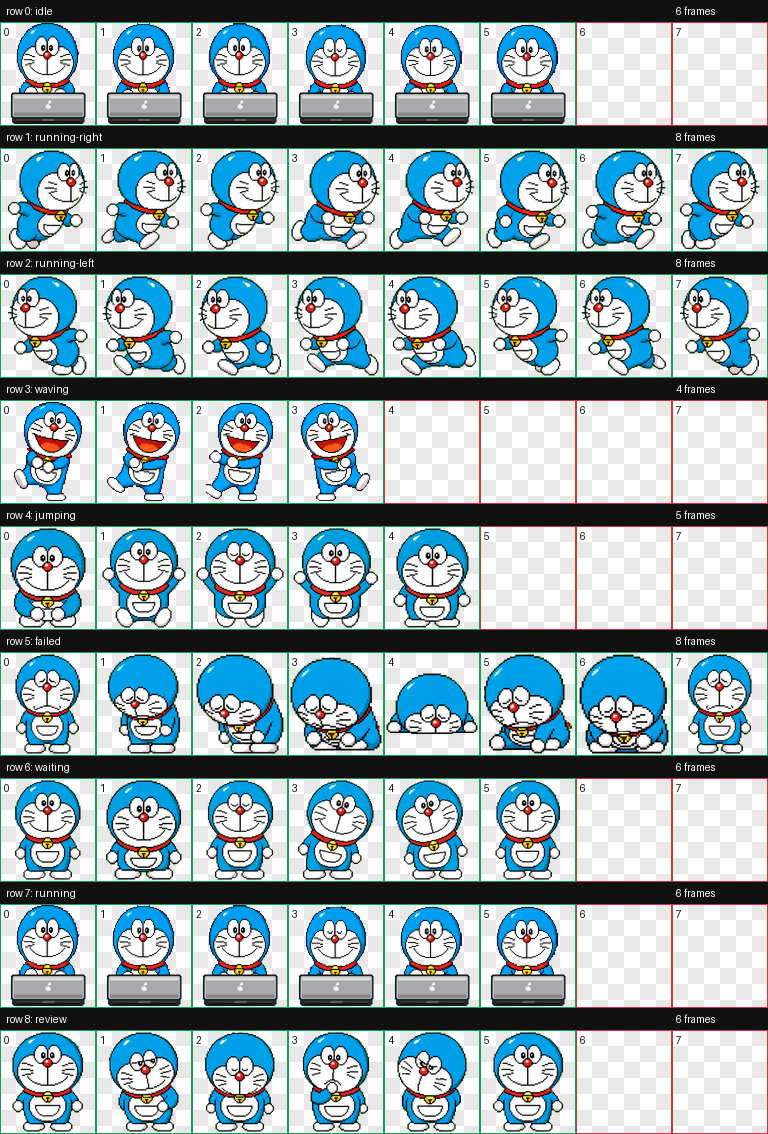
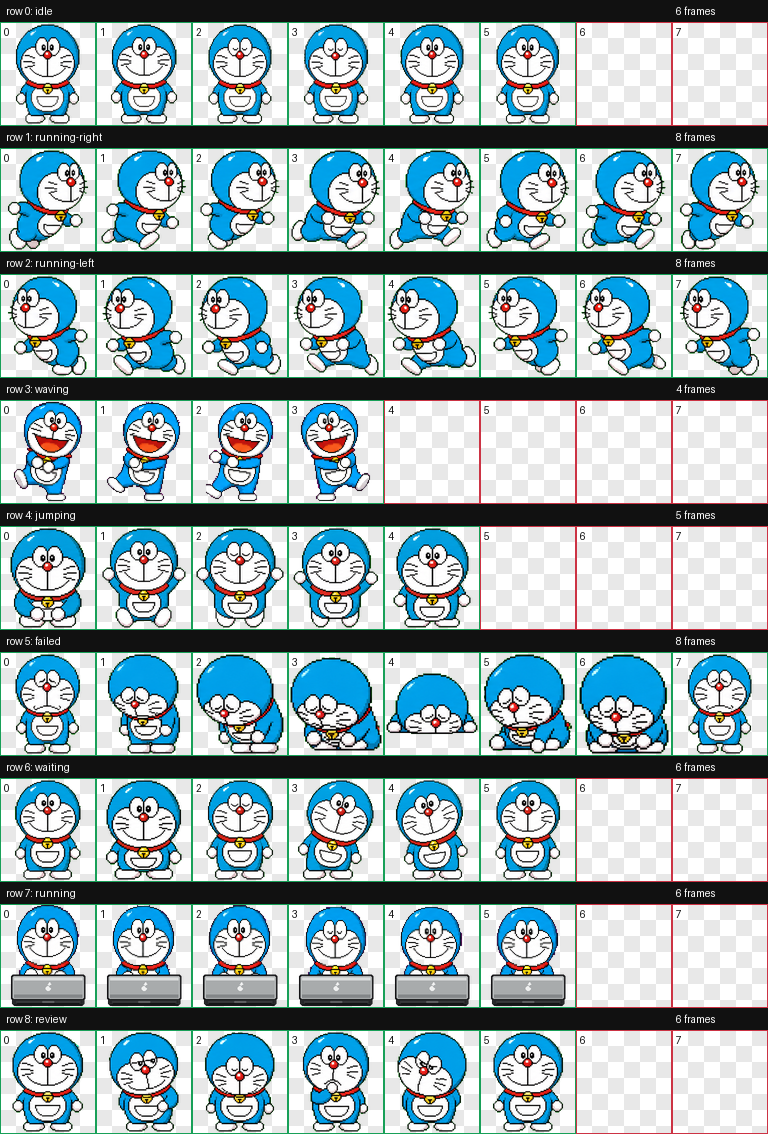
Fix Doraemon idle sprite cleanup

Changed region(s): [[0.0, 0.0, 0.75, 0.1235]]

diff --git a/README.md b/README.md
@@ -2,17 +2,17 @@
 
 一只为 [OpenAI Codex](https://openai.com/codex/) 桌面应用定制的哆啦A梦桌宠。
 
-它会悬浮在屏幕最顶层,实时显示 Codex 的工作状态:**派活后坐下敲键盘,干完活起身跳科目三庆祝,翻车了瘫倒在地**。
+它会悬浮在屏幕最顶层,实时显示 Codex 的工作状态:**派活后坐下用 MacBook 工作,需要输入时抬头等你,干完活进入 Ready 检查状态,翻车了瘫倒在地**。
 
-![敲键盘](previews/running.gif) ![科目三](previews/waving.gif) ![失败](previews/failed.gif)
+![MacBook 工作](previews/running.gif) ![科目三](previews/waving.gif) ![失败](previews/failed.gif)
 
 ## 特色
 
 在标准哆啦A梦宠物包的基础上定制了两个动画:
 
-- **敲键盘干活**:Codex 在后台执行任务时,哆啦A梦坐在小笔记本前打字(原版是原地小跑)。坐姿头身比与站立帧严格对齐,切换时不会突然变大
+- **MacBook 工作**:Codex 在后台执行任务时,哆啦A梦坐在小笔记本前专注工作(原版是原地小跑)。坐姿头身比与站立帧严格对齐,切换时不会突然变大
 - **官方配色校准**:全表主体蓝校准到官方哆啦A梦标准蓝 `#00A0E9`,各状态配色统一
-- **科目三庆祝舞**:任务完成时跳一段抖音科目三——扭胯、踢腿、甩臂画腕(原版是普通挥手)。按官方契约 waving 行为 4 帧,从 8 帧原始动作中抽取关键帧制作
+- **科目三打招呼**:保留在 waving 行,用于宠物打招呼/首次唤醒一类轻量反馈。按官方契约 waving 行为 4 帧,从 8 帧原始动作中抽取关键帧制作
 
 ## 安装
 
@@ -49,12 +49,12 @@ curl -fsSL -o ~/.codex/pets/doraemon/spritesheet.webp https://raw.githubusercont
 
 | 状态 | 预览 | 触发时机 |
 |---|---|---|
-| 发呆 idle | ![idle](previews/idle.gif) | 没有任务时,呼吸眨眼 |
-| 敲键盘 running | ![running](previews/running.gif) | Codex 在后台干活时 |
-| 检查 review | ![review](previews/review.gif) | Codex 审查代码时 |
+| 发呆 idle | ![idle](previews/idle.gif) | 没有任务时,站立呼吸眨眼 |
+| MacBook 工作 running | ![running](previews/running.gif) | Codex 在后台干活时 |
+| 检查 review | ![review](previews/review.gif) | 任务完成后有未读结果/Ready 时 |
 | 等待 waiting | ![waiting](previews/waiting.gif) | 等你批准操作(气泡显示红色时钟) |
-| 跳跃 jumping | ![jumping](previews/jumping.gif) | 需要你做决定时 |
-| 科目三 waving | ![waving](previews/waving.gif) | 任务完成(气泡显示绿色对勾) |
+| 跳跃 jumping | ![jumping](previews/jumping.gif) | 鼠标悬停宠物时的临时反馈 |
+| 科目三 waving | ![waving](previews/waving.gif) | 宠物打招呼/首次唤醒一类轻量反馈 |
 | 失败 failed | ![failed](previews/failed.gif) | 任务失败,瘫倒 |
 | 向右跑 | ![running-right](previews/running-right.gif) | 被向右拖动时 |
 | 向左跑 | ![running-left](previews/running-left.gif) | 被向左拖动时 |
@@ -75,7 +75,7 @@ doraemon-codex-pet/
 ## 制作说明
 
 - 基础形象来自 [Petdex](https://petdex.dev) 社区的 doraemon 宠物包(作者 korkyzer)
-- 敲键盘和科目三两行动画为 AI 生成后,经色键抠图、按头宽与基线对齐缩放、碎片清理后合成
+- MacBook 工作和科目三两行动画为 AI 生成后,经色键抠图、按头宽与基线对齐缩放、碎片清理后合成
 - 详细 DIY 方法可参考 [openai/skills 的 hatch-pet 技能](https://github.com/openai/skills/blob/main/skills/.curated/hatch-pet/SKILL.md)
 
 ## 版权声明
